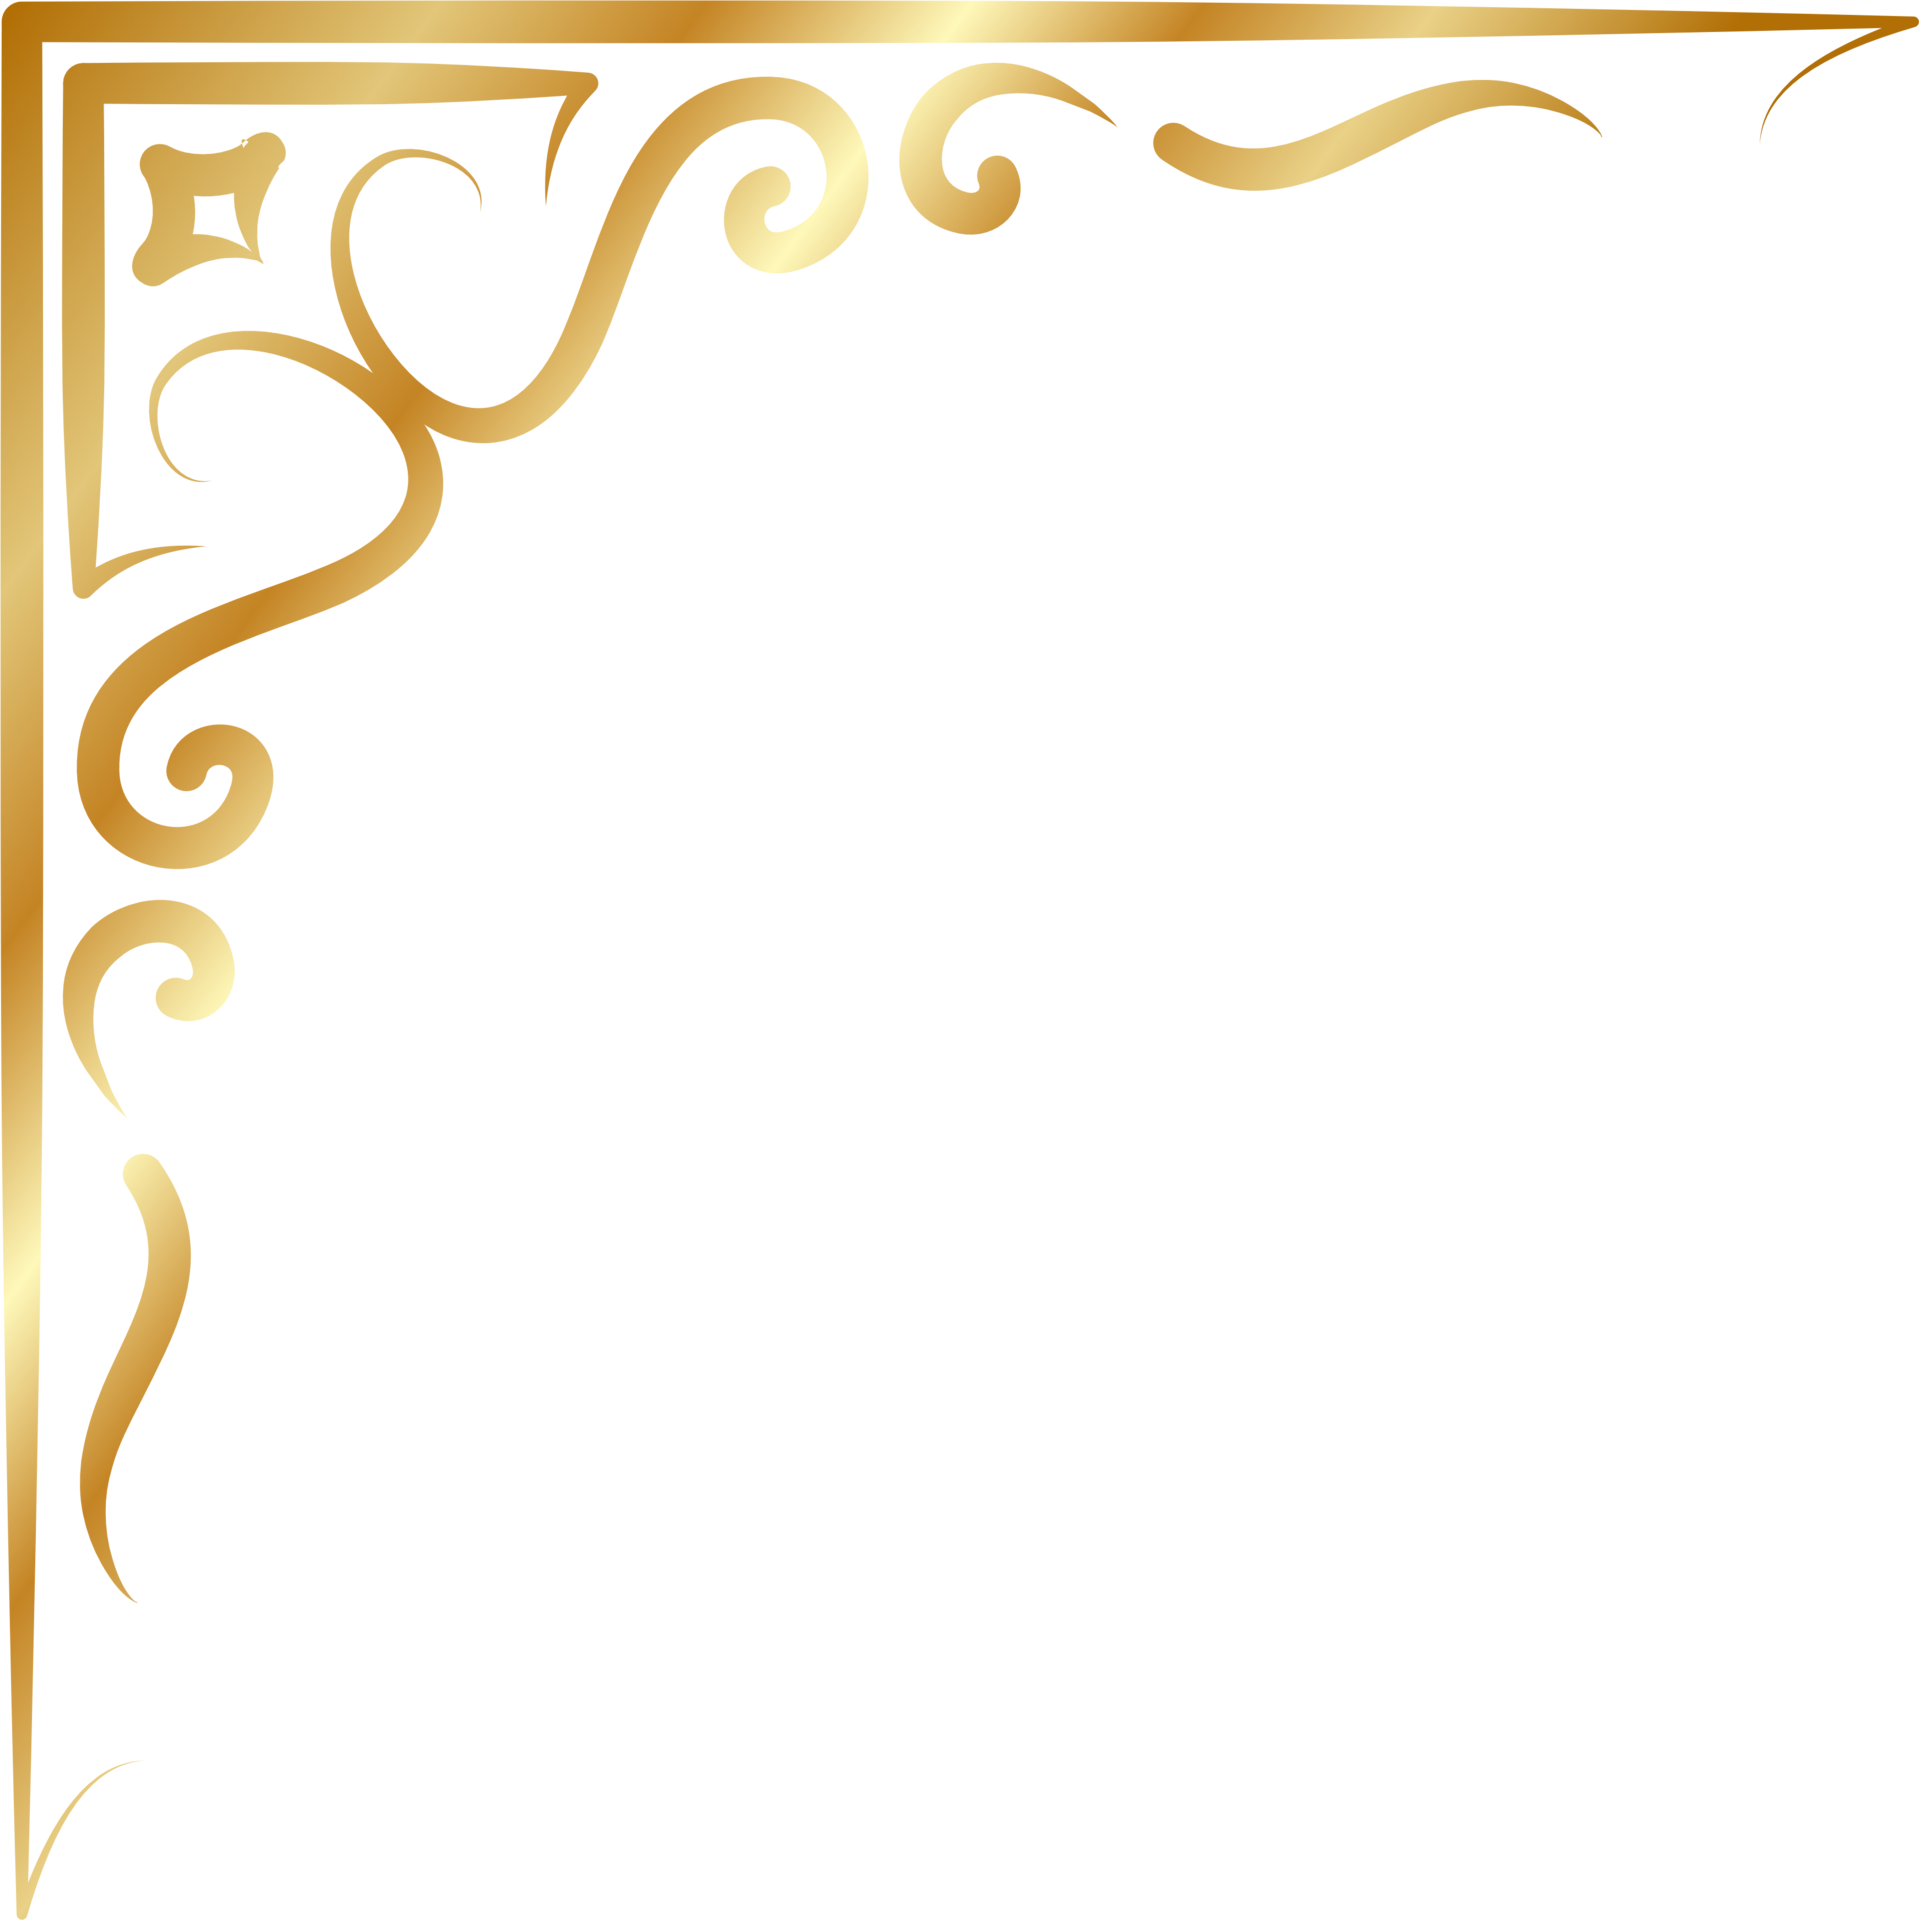
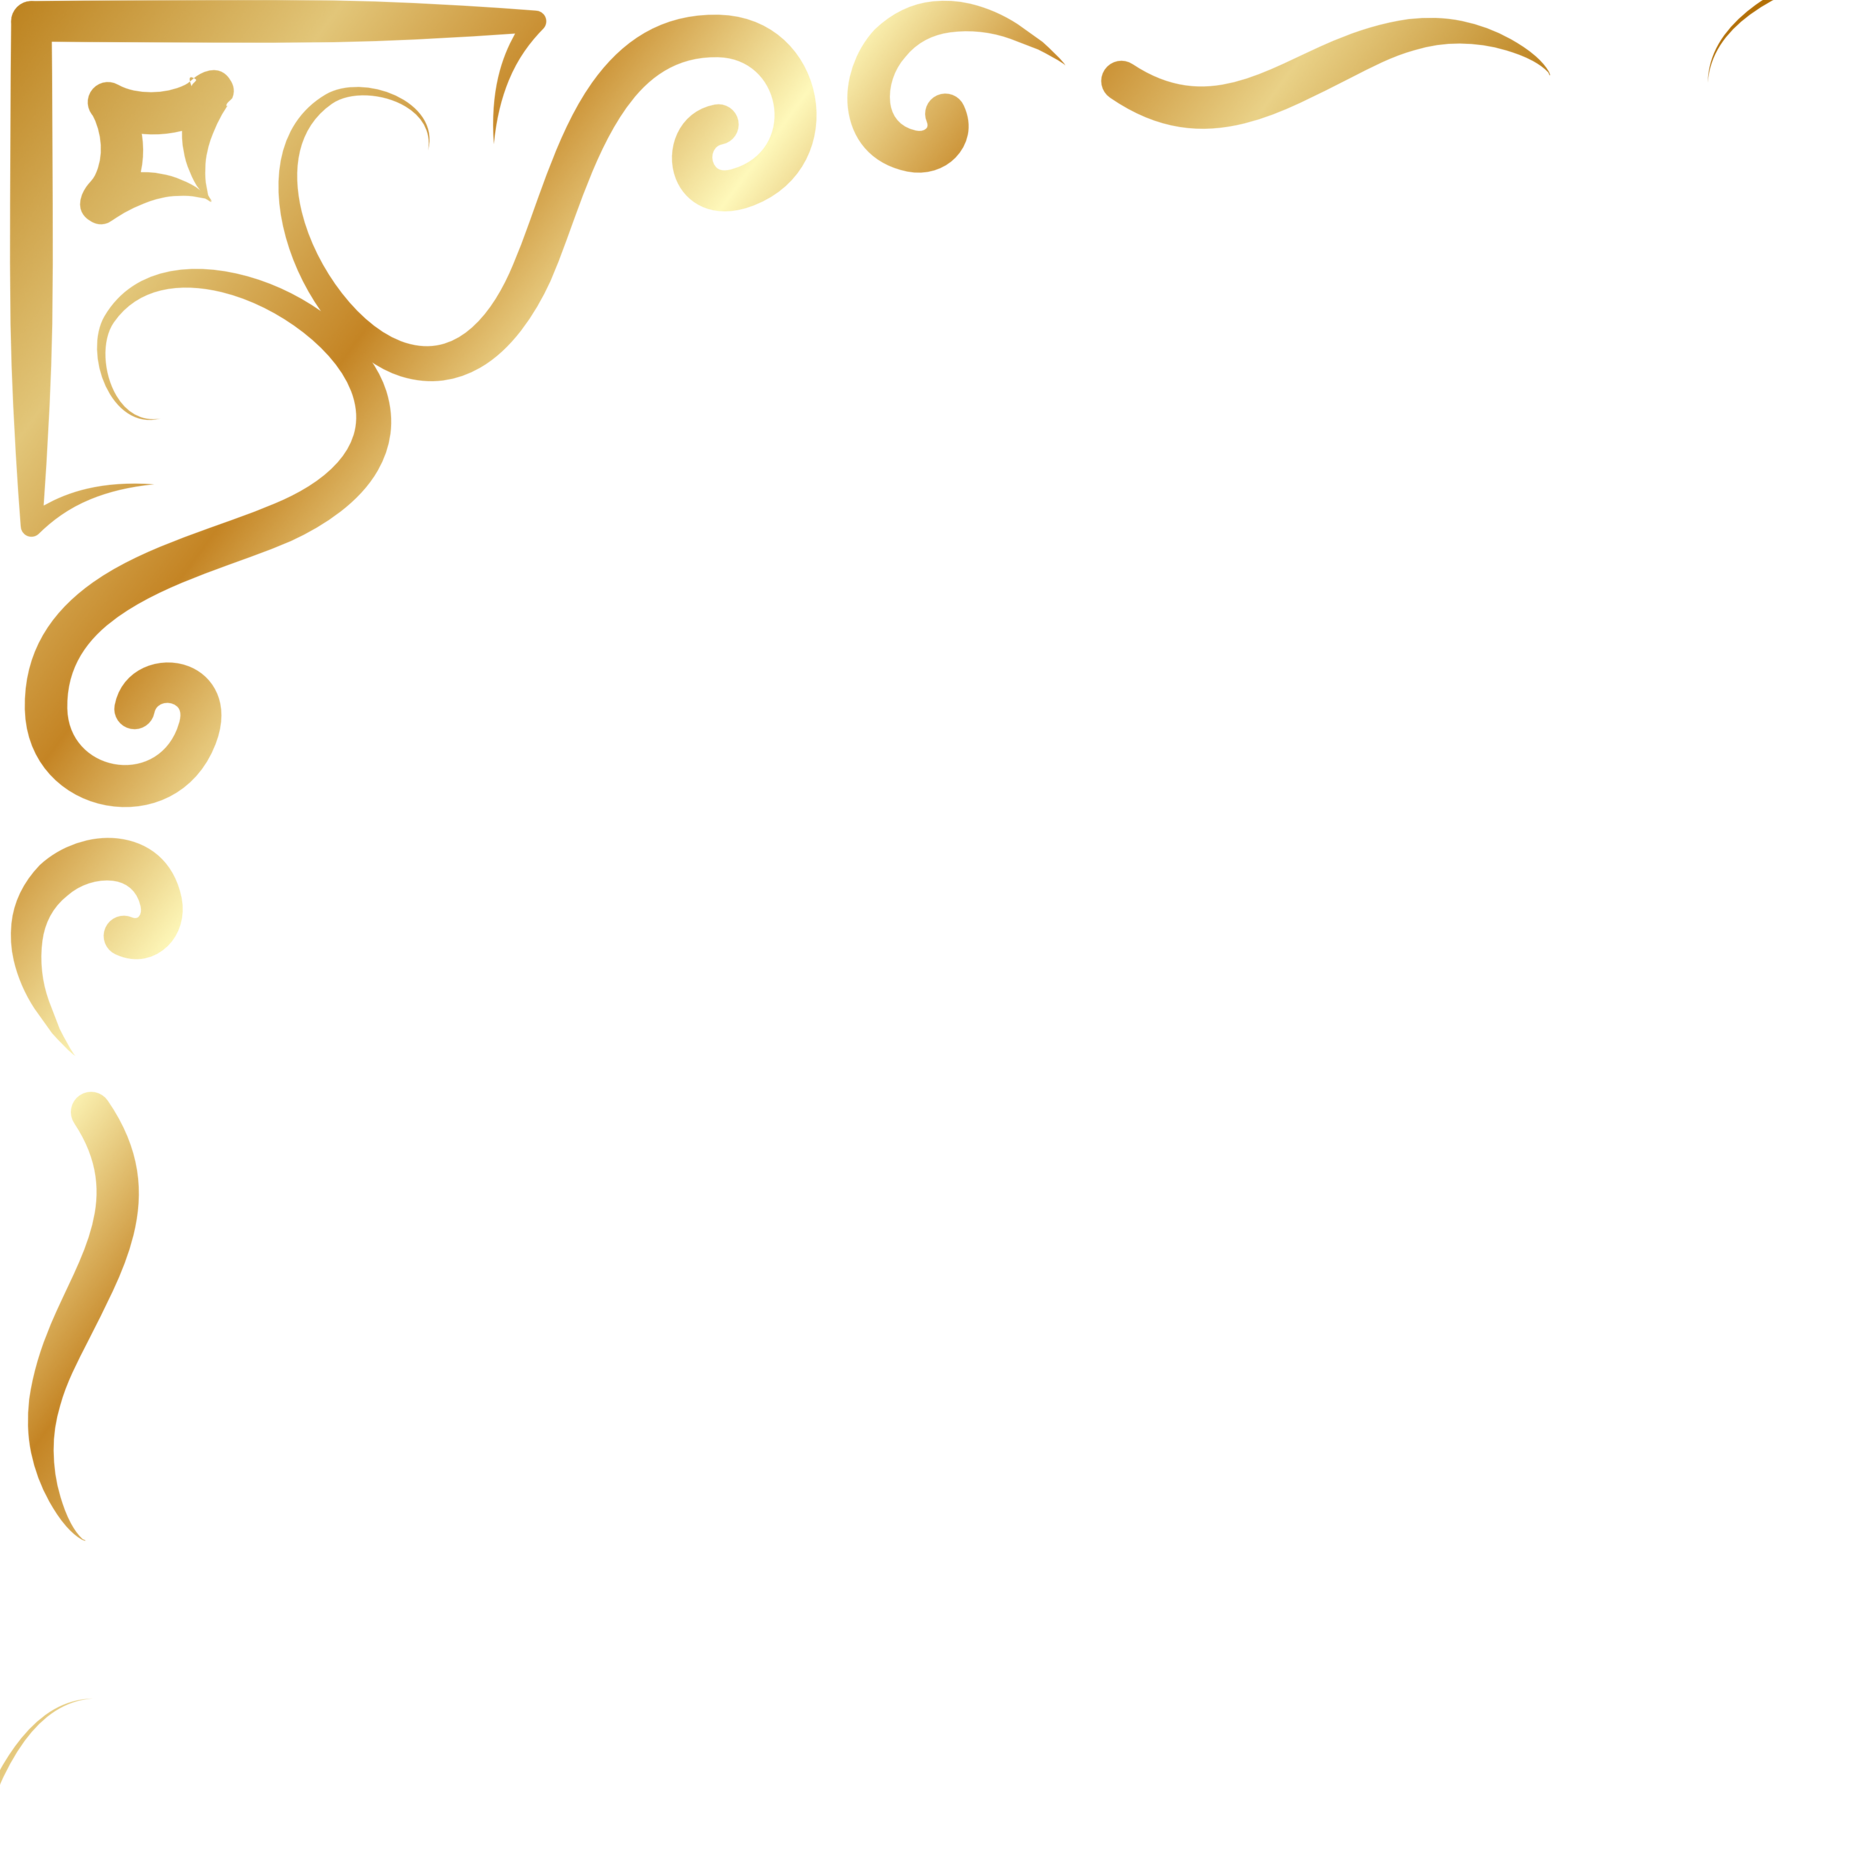
Update SubmissionsPage styles for dark mode support and enhance border image
- Modified the UI in SubmissionsPage to adapt styles based on dark mode, improving visual consistency and user experience.
- Updated the border image to a new version, ensuring it aligns with the overall design aesthetics.

These changes enhance the usability and visual appeal of the SubmissionsPage, particularly for users in dark mode.

Changed region(s): [[0.0, 0.0, 1.0, 1.0]]

diff --git a/artifacts/poetry-platform/src/pages/dashboard/SubmissionsPage.tsx b/artifacts/poetry-platform/src/pages/dashboard/SubmissionsPage.tsx
@@ -542,7 +542,11 @@ export default function SubmissionsPage() {
               </div>
 
               <div className="p-6 space-y-6">
-                <p className="text-xs text-amber-400/80 flex items-center gap-2 px-3 py-2 bg-amber-500/5 rounded-lg border border-amber-500/15">
+                <p className={`text-xs flex items-center gap-2 px-3 py-2 rounded-lg border ${
+                  isDark
+                    ? "text-amber-400/80 bg-amber-500/5 border-amber-500/15"
+                    : "text-amber-900 bg-amber-100 border-amber-300"
+                }`}>
                   <svg className="w-4 h-4 flex-shrink-0" fill="currentColor" viewBox="0 0 20 20">
                     <path fillRule="evenodd" d="M18 10a8 8 0 11-16 0 8 8 0 0116 0zm-7-4a1 1 0 11-2 0 1 1 0 012 0zM9 9a1 1 0 000 2v3a1 1 0 001 1h1a1 1 0 100-2v-3a1 1 0 00-1-1H9z" clipRule="evenodd" />
                   </svg>
@@ -593,8 +597,12 @@ export default function SubmissionsPage() {
                       onClick={() => setDecisionType("accept")}
                       className={`flex-1 py-3 rounded-xl font-semibold text-sm transition-all border-2 ${
                         decisionType === "accept"
-                          ? "bg-green-500/20 border-green-500 text-green-400"
-                          : "border-green-500/30 text-green-400 hover:bg-green-500/10"
+                          ? (isDark
+                              ? "bg-green-500/20 border-green-500 text-green-400"
+                              : "bg-green-100 border-green-500 text-green-900")
+                          : (isDark
+                              ? "border-green-500/30 text-green-400 hover:bg-green-500/10"
+                              : "border-green-400 text-green-900 hover:bg-green-50")
                       }`}
                     >
                       ✓ {lang === "ar" ? "قبول" : "Accept"}
@@ -605,8 +613,12 @@ export default function SubmissionsPage() {
                       onClick={() => setDecisionType("reject")}
                       className={`flex-1 py-3 rounded-xl font-semibold text-sm transition-all border-2 ${
                         decisionType === "reject"
-                          ? "bg-red-500/20 border-red-500 text-red-400"
-                          : "border-red-500/30 text-red-400 hover:bg-red-500/10"
+                          ? (isDark
+                              ? "bg-red-500/20 border-red-500 text-red-400"
+                              : "bg-red-100 border-red-500 text-red-900")
+                          : (isDark
+                              ? "border-red-500/30 text-red-400 hover:bg-red-500/10"
+                              : "border-red-400 text-red-900 hover:bg-red-50")
                       }`}
                     >
                       ✗ {lang === "ar" ? "رفض" : "Reject"}
